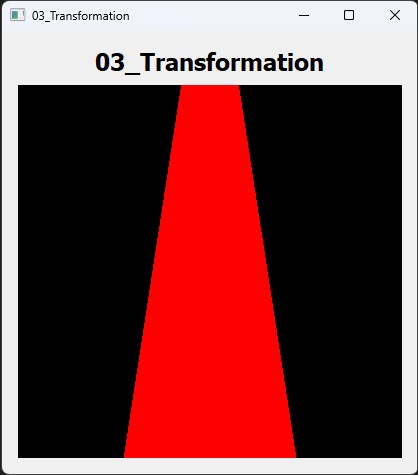
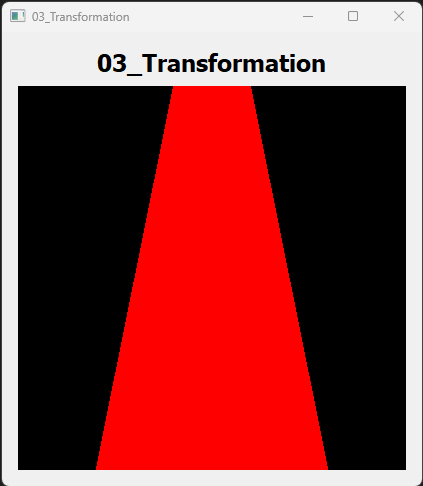
[fixed_03_Transformation]  *set transpose matrix is true.*

diff --git a/03_Transformation/src/glwidget.cpp b/03_Transformation/src/glwidget.cpp
@@ -63,9 +63,9 @@ void glWidget::paintGL()
     GLuint uModelMatrix = glGetUniformLocation(program->programId(), "uModelMatrix");
     
     // use algebra-matrix for 3D Transformation
-    M = rotation3D(vec3(0.0, 0.0, 1.0), -45)* M;
+    M = rotation3D(vec3(0.0, 0.0, 1.0), 45)* M;
     M = identity3D();
-    M = translation3D(vec3(0.0, -0.5, 0.0)) * scaling3D(vec3(2.0, 3.0, 1.0)) * M;
+    M = translation3D(vec3(0.0, 0.5, 0.0)) * scaling3D(vec3(2.0, 3.0, 1.0)) * M;
     // pass M elements to openGL Matrix
     GLfloat rotationMatrix[] = { 
             M[VX][0], M[VX][1], M[VX][2], M[VX][3],
@@ -74,7 +74,7 @@ void glWidget::paintGL()
             M[VW][0], M[VW][1], M[VW][2], M[VW][3]
     };
     //pass the transformation matrix to shader
-    glUniformMatrix4fv(uModelMatrix, 1, GL_FALSE, rotationMatrix); 
+    glUniformMatrix4fv(uModelMatrix, 1, GL_TRUE, rotationMatrix); 
 
     // Clear glwidget by background color before drawing
     glClearColor(0.0f, 0.0f, 0.0f, 1.0f);
